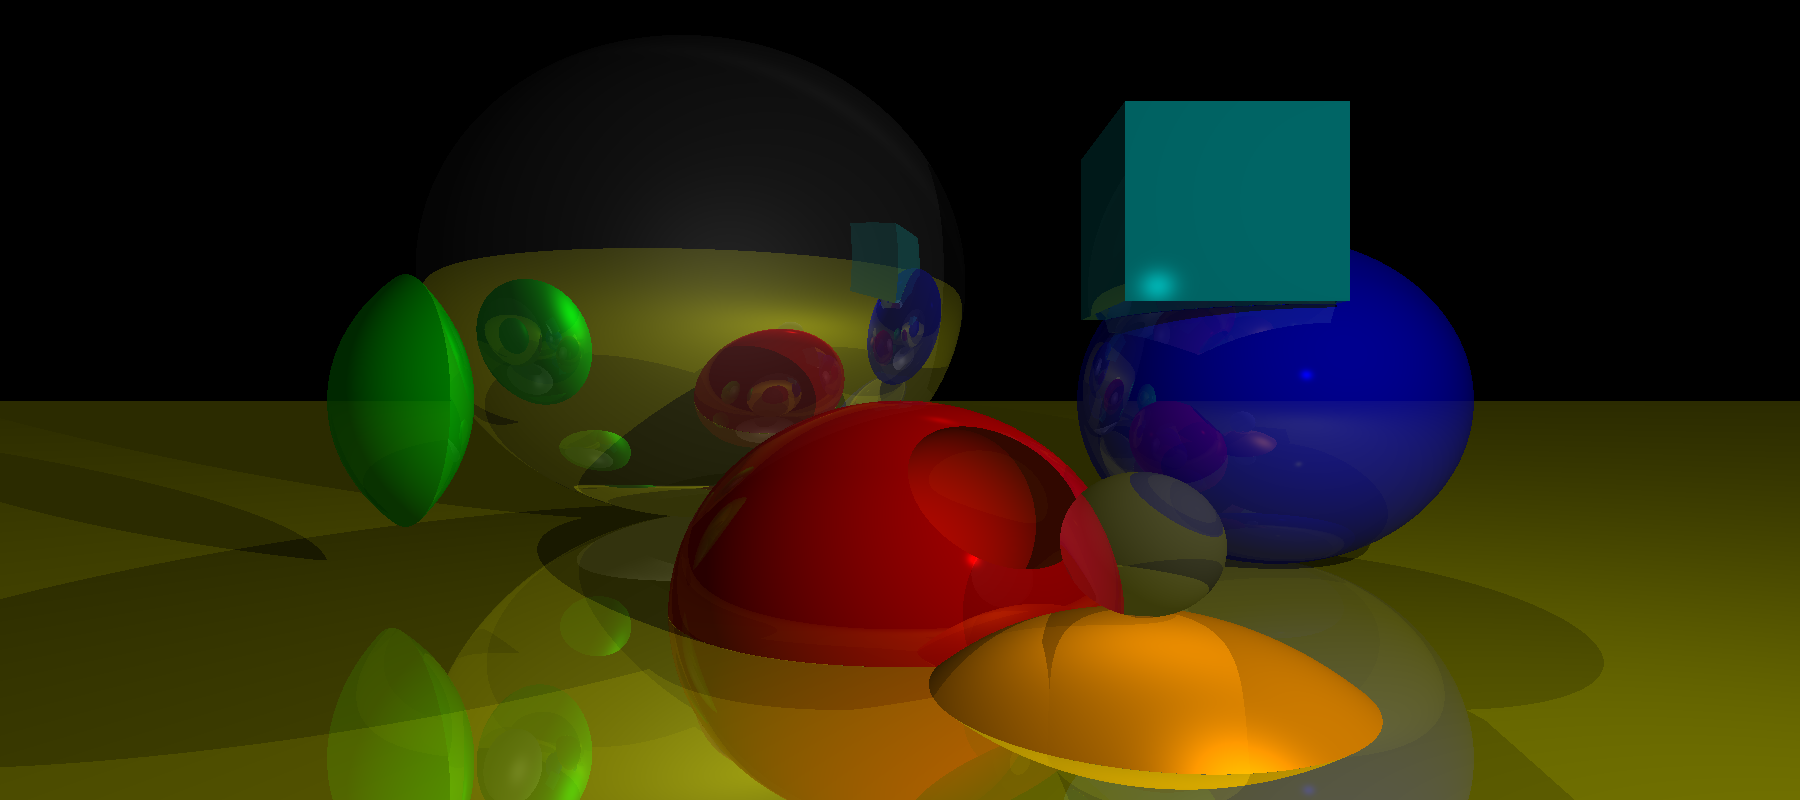
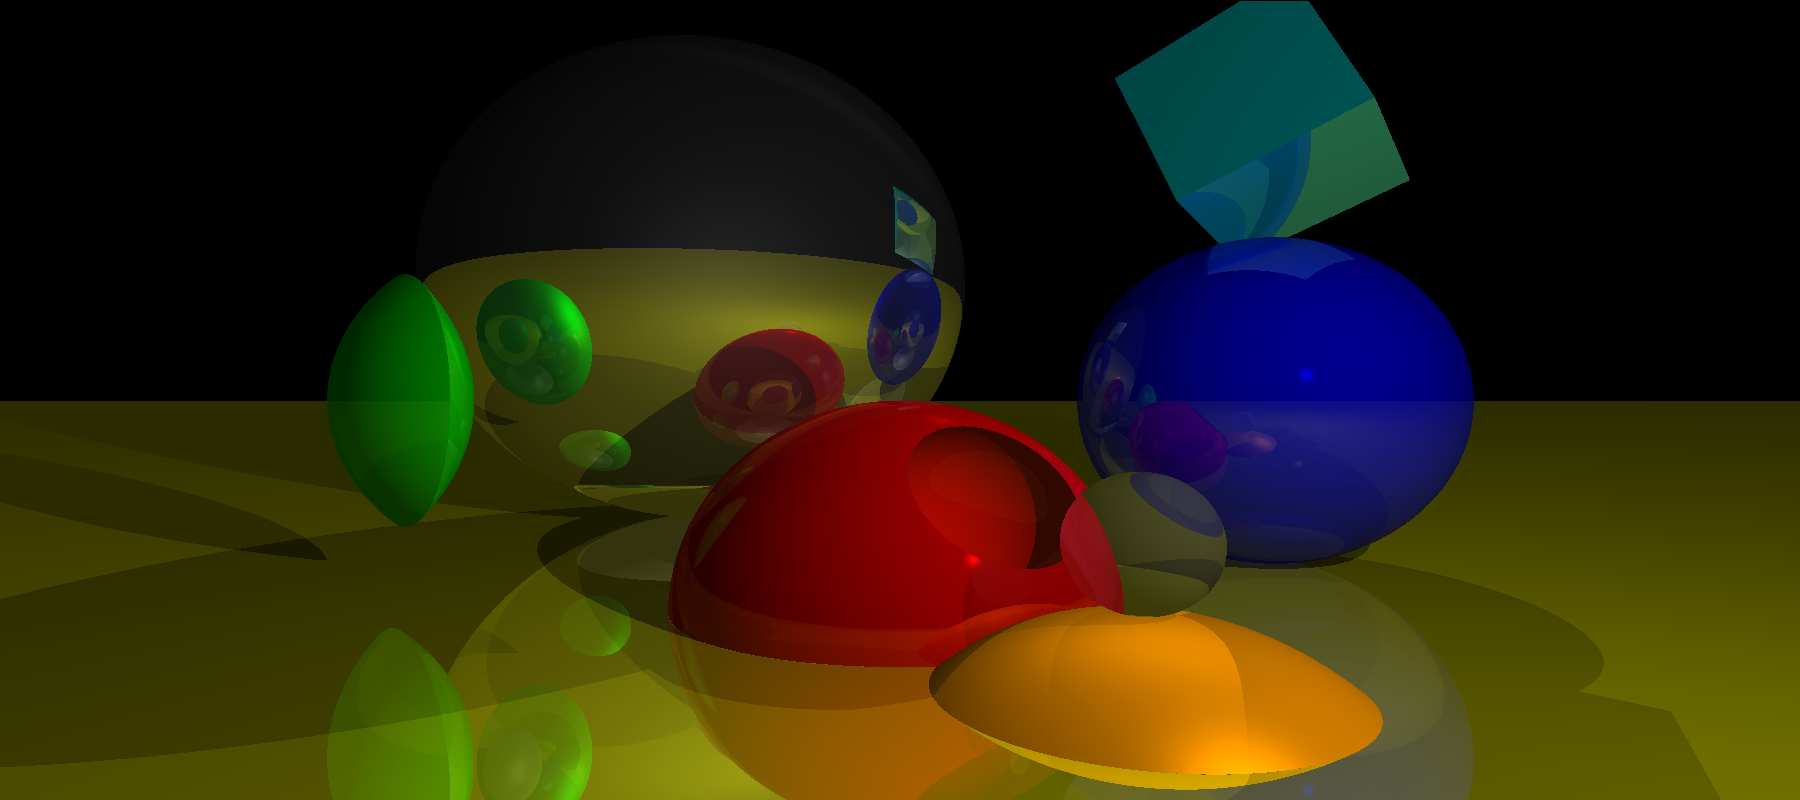
NOBUG: Adding transformations to shapes. Also adding cube primitive

Changed region(s): [[0.5911, 0.0, 0.7778, 0.4062], [0.4667, 0.25, 0.5289, 0.375], [0.56, 0.75, 0.6222, 0.8438]]

diff --git a/src/main.rs b/src/main.rs
@@ -17,6 +17,7 @@ fn main() {
     );
 
     let mut scene = Scene::new(Vector3::new(0., 0., 0.));
+
     // red
     scene.objects.push(Object::new(
         Shape::sphere(Vector3::new(0., -1., 3.), 1.0)
@@ -93,13 +94,9 @@ fn main() {
 
     // cube
     scene.objects.push(Object::new(
-            Shape::half_space(Vector3::new(0., 0., -1.), -3.)
-            .intersection(Shape::half_space(Vector3::new(1., 0., 0.), 2.))
-            .intersection(Shape::half_space(Vector3::new(-1., 0., 0.), -1.))
-            .intersection(Shape::half_space(Vector3::new(0., 1., 0.), 1.5))
-            .intersection(Shape::half_space(Vector3::new(0., -1., 0.), -0.5))
-            .intersection(Shape::half_space(Vector3::new(0., 0., 1.), 4.))
-            //.intersection(Shape::half_space(Vector3::new(0., 0., -1.), -0.5))
+            Shape::cube(1.)
+                .rotate_around_origin(&Rotation3::from_euler_angles(0.5, 0.5, 0.5))
+                .translate(&Vector3::new(2., 1.7, 4.))
         ,
         Vector3::new(0., 1., 1.),
         Some(1000.),
@@ -342,28 +339,6 @@ impl Intersection {
     }
 }
 
-/*
-impl Ord for Intersection {
-    fn cmp(&self, other: &Self) -> Ordering {
-        self.t.partial_cmp(&other.t).unwrap_or(Ordering::Equal)
-    }
-}
-
-impl PartialOrd for Intersection {
-    fn partial_cmp(&self, other: &Self) -> Option<Ordering> {
-        self.t.partial_cmp(&other.t)
-    }
-}
-
-impl PartialEq for Intersection {
-    fn eq(&self, other: &Self) -> bool {
-        self.t == other.t
-    }
-}
-
-impl Eq for Intersection {}
-*/
-
 impl Shape {
     fn sphere(center: Vector3<f32>, radius: f32) -> Self {
         Self::Sphere { center, radius }
@@ -371,6 +346,15 @@ impl Shape {
 
     fn half_space(normal: Vector3<f32>, distance: f32) -> Self {
         Self::HalfSpace { normal, distance }
+    }
+
+    fn cube(side_len: f32) -> Self {
+        Shape::half_space(Vector3::new(0., 0., -1.), 0.5 * side_len)
+            .intersection(Shape::half_space(Vector3::new(0., 0., 1.), 0.5 * side_len))
+            .intersection(Shape::half_space(Vector3::new(1., 0., 0.), 0.5 * side_len))
+            .intersection(Shape::half_space(Vector3::new(-1., 0., 0.), 0.5 * side_len))
+            .intersection(Shape::half_space(Vector3::new(0., 1., 0.), 0.5 * side_len))
+            .intersection(Shape::half_space(Vector3::new(0., -1., 0.), 0.5 * side_len))
     }
 
     fn union(self, other: Self) -> Self {
@@ -383,6 +367,57 @@ impl Shape {
 
     fn difference(self, other: Self) -> Self {
         Self::Difference(Box::new(self), Box::new(other))
+    }
+
+    fn translate(self, translation: &Vector3<f32>) -> Self {
+        match self {
+            Self::Sphere { center, radius } => Self::Sphere { center: center + translation, radius },
+            Self::HalfSpace { normal, distance } => Self::HalfSpace { normal, distance: distance + translation.dot(&normal) },
+            Self::Union(mut a, mut b) => {
+                *a = a.translate(translation);
+                *b = b.translate(translation);
+                Self::Union(a, b)
+            },
+            Self::Intersection(mut a, mut b) => {
+                *a = a.translate(translation);
+                *b = b.translate(translation);
+                Self::Intersection(a, b)
+            },
+            Self::Difference(mut a, mut b) => {
+                *a = a.translate(translation);
+                *b = b.translate(translation);
+                Self::Difference(a, b)
+            },
+        }
+    }
+
+    fn rotate_around_origin(self, rotation: &Rotation3<f32>) -> Self {
+        match self {
+            Self::Sphere { center, radius } => Self::Sphere { center, radius },
+            Self::HalfSpace { normal, distance } => Self::HalfSpace { normal: rotation * normal, distance },
+            Self::Union(mut a, mut b) => {
+                *a = a.rotate_around_origin(rotation);
+                *b = b.rotate_around_origin(rotation);
+                Self::Union(a, b)
+            }
+            Self::Intersection(mut a, mut b) => {
+                *a = a.rotate_around_origin(rotation);
+                *b = b.rotate_around_origin(rotation);
+                Self::Intersection(a, b)
+            }
+            Self::Difference(mut a, mut b) => {
+                *a = a.rotate_around_origin(rotation);
+                *b = b.rotate_around_origin(rotation);
+                Self::Difference(a, b)
+            }
+        }
+    }
+
+    fn rotate_around_point(self, rotation: &Rotation3<f32>, point: &Vector3<f32>) -> Self {
+        self
+            .translate(&-point)
+            .rotate_around_origin(rotation)
+            .translate(point)
     }
 
     fn intersect_ray(&self, o: &Vector3<f32>, d: &Vector3<f32>, t_min: f32, t_max: f32) -> Option<Intersection> {
